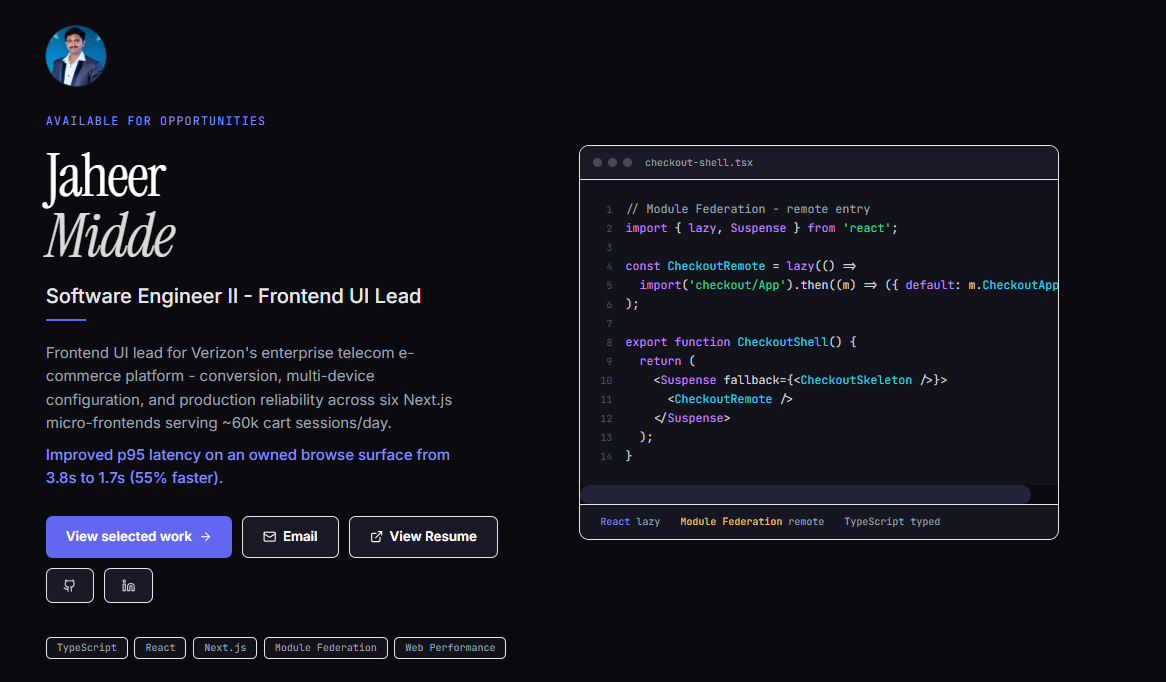
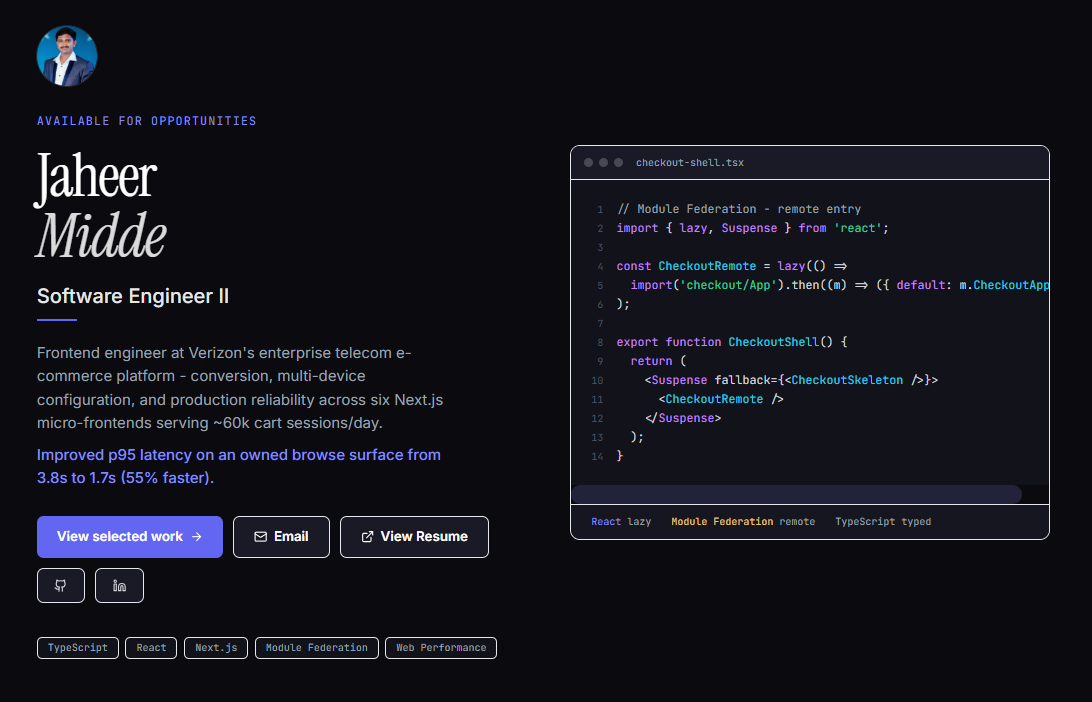
Fix: Namings

diff --git a/src/data/portfolio.ts b/src/data/portfolio.ts
@@ -1,8 +1,8 @@
 export const personal = {
   name: 'Jaheer Midde',
-  title: 'Software Engineer II - Frontend UI Lead',
+  title: 'Software Engineer II',
   tagline:
-    'Frontend UI lead for Verizon\'s enterprise telecom e-commerce platform - conversion, multi-device configuration, and production reliability across six Next.js micro-frontends serving ~60k cart sessions/day.',
+    'Frontend engineer at Verizon\'s enterprise telecom e-commerce platform - conversion, multi-device configuration, and production reliability across six Next.js micro-frontends serving ~60k cart sessions/day.',
   /** Sharp win - rendered on its own line in Hero for mobile readability */
   taglineProof: 'Improved p95 latency on an owned browse surface from 3.8s to 1.7s (55% faster).',
   photoUrl: '/Jaheer_Midde_DP.jpg',
@@ -195,7 +195,7 @@ export const projects: Project[] = [
     headlineMetric: 'Owned browse-surface p95 3.8s -> 1.7s · retention-offer conversion +12% relative · cart add-to-cart +8% relative',
     metricContext: 'Anonymized internal production results on owned e-commerce surfaces. The latency figure is p95 before and after optimization; percentage figures are relative lifts against a pre-change or control baseline; rollout exposure describes a controlled feature-flag progression. Measurement windows, exact traffic, dates, and sample sizes are omitted.',
     description:
-      'UI lead for conversion on Verizon\'s enterprise telecom e-commerce platform - improving promotional merchandising, retention offers, and purchase journeys across high-volume browse and checkout surfaces.',
+      'Frontend engineer focussed on conversion at Verizon\'s enterprise telecom e-commerce platform - improving promotional merchandising, retention offers, and purchase journeys across high-volume browse and checkout surfaces.',
     myContribution:
       'Owned end-to-end: request sequencing design, offer render optimization, and controlled rollout architecture. Led code reviews; backend and QA coordinated integration and experiment operations.',
     problem:
@@ -257,7 +257,7 @@ export const projects: Project[] = [
     headlineMetric: 'Connected-device attach +18% relative · zero state loss · 76 MRs across 6 repos',
     metricContext: 'Anonymized internal production result on owned purchase flows. The attach-rate figure is a relative lift against a pre-change baseline; onboarding compares approximate durations; MR and repository counts describe H1 2026 leadership scope. Measurement window, exact traffic, and sample size are omitted.',
     description:
-      'Core UI lead for a Next.js multi-product device configurator spanning phones, wearables, and tablets - multi-device navigation, persistent state, and dependency validation across connected-device purchase journeys.',
+      'Core UI engineering for a Next.js multi-product device configurator spanning phones, wearables, and tablets - multi-device navigation, persistent state, and dependency validation across connected-device purchase journeys.',
     myContribution:
       'Designed the device-context state model and cross-category validation rules. Owned system design docs and final review on 76 MRs across 6 repositories; mentored the squad on configurator patterns and grooming.',
     problem:
@@ -267,12 +267,12 @@ export const projects: Project[] = [
     outcome:
       'Enabled bidirectional add journeys with zero data loss across device-context switches; connected-device attach rate delivered an 18% relative lift on bundle flows. Cut new-developer onboarding from ~3 weeks to ~1.5 weeks through structured knowledge-transfer sessions.',
     technicalDeepDive:
-      'The configurator maintains a device-context stack in client state - when a user adds one device and navigates to another, the newest device becomes active while prior selections and eligibility decisions remain available. Cross-category logic validates dependencies before checkout rather than deferring them to the cart. As UI lead, I finalized approach docs, led grooming, and conducted code reviews across six repositories - merging 76 MRs in H1 2026 with zero static-analysis issues and quality gates on every push.',
+      'The configurator maintains a device-context stack in client state - when a user adds one device and navigates to another, the newest device becomes active while prior selections and eligibility decisions remain available. Cross-category logic validates dependencies before checkout rather than deferring them to the cart. I finalized approach docs, supported grooming, and conducted code reviews across six repositories - merging 76 MRs in H1 2026 with zero static-analysis issues and quality gates on every push.',
     metrics: [
       { label: 'Connected-device relative attach-rate lift', before: 'pre-change baseline', after: '+18%' },
       { label: 'MRs merged (H1 2026)', before: '-', after: '76', display: 'kpi' },
       { label: 'Developer onboarding time', before: '~3 wks', after: '~1.5 wks' },
-      { label: 'Repositories led', before: '-', after: '6', display: 'kpi' },
+      { label: 'Repositories involved', before: '-', after: '6', display: 'kpi' },
     ],
     artifacts: {
       showStateDiagram: true,
@@ -286,7 +286,7 @@ export const projects: Project[] = [
     highlights: [
       'Built multi-device navigation - seamless switching between product categories without state loss',
       'Orchestrated connected-device bundle flows with an in-context path to add a companion product',
-      'UI lead for purchase-flow engineering: system design, grooming, knowledge transfer, and code reviews across six repositories',
+      'Contributed to purchase-flow engineering: system design, grooming, knowledge transfer, and code reviews across six repositories',
       'Delivered purchase-flow migrations and guided checkout integrations as a core UI point of contact',
     ],
     tech: ['Next.js', 'TypeScript', 'React', 'Feature Flags', 'Jest', 'Sonar', 'Zustand', 'Module Federation'],
@@ -363,7 +363,7 @@ export interface Experience {
   location: string;
   description: string;
   achievements: string[];
-  leadership?: string[];
+  collaboration?: string[];
   tech: string[];
   progression?: RoleProgression[];
 }
@@ -380,15 +380,15 @@ export const experiences: Experience[] = [
       { role: 'Software Engineer II', period: 'Dec 2023 - Present' },
     ],
     description:
-      'Core UI lead for purchase-flow engineering on Verizon\'s enterprise telecom e-commerce platform - owning conversion improvements, multi-product configurator architecture, and production reliability across browse, configuration, and checkout micro-frontends serving high-volume customer journeys.',
+      'Core UI engineering for purchase-flow engineering on Verizon\'s enterprise telecom e-commerce platform - owning conversion improvements, multi-product configurator architecture, and production reliability across browse, configuration, and checkout micro-frontends serving high-volume customer journeys.',
     achievements: [
-      'UI lead for conversion and offer experiences across browse and checkout micro-frontends',
+      'Contributed to conversion and offer experiences across browse and checkout micro-frontends',
       'Architected a multi-product configurator enabling persistent cross-device state and bidirectional add flows',
       'Owned production stability for squad surfaces - SSR security remediation, defect triage, and launch-window war rooms during flagship releases',
       'Shipped consecutive flagship launch cycles with coordinated cross-platform triage and no carry-forward defects on owned surfaces',
     ],
-    leadership: [
-      'UI lead for purchase-flow engineering: system design, story grooming, approach finalization, and code reviews across 6 repositories',
+    collaboration: [
+      'Contributed to purchase-flow engineering: system design, story grooming, approach finalization, and code reviews across 6 repositories',
       'Authored an RFC-style design doc on micro-frontend integration and semver upgrade paths - adopted as a squad standard for remote-entry contracts',
       'Conducted knowledge-transfer sessions on squad EPICs - cut new-developer onboarding from ~3 weeks to ~1.5 weeks; mentored junior engineers on platform architecture',
       'Primary UI liaison between feature flags, backend services, and QA - leading incident triage during flagship and holiday releases',
@@ -488,7 +488,7 @@ export const siteMeta = {
   url: 'https://jaheermidde.vercel.app',
   ogImage: '/og-image.png',
   description:
-    'Frontend UI lead at Verizon - cart performance, configurator architecture, and production reliability. Open source: ShopForge and ConfigStack frontend demos.',
+    'Software Engineer II at Verizon - cart performance, configurator architecture, and production reliability. Open source: ShopForge and ConfigStack frontend demos.',
   builtWith: ['React 18', 'TypeScript', 'Vite', 'Tailwind CSS'],
   /** Shields.io badge for CI - update org/repo if different on GitHub */
   ciBadgeUrl: 'https://img.shields.io/github/actions/workflow/status/JaheerMidde/portfolio/ci.yml?branch=main&label=CI',

diff --git a/index.html b/index.html
@@ -6,8 +6,8 @@
     <meta name="viewport" content="width=device-width, initial-scale=1.0" />
 
     <!-- Primary Meta -->
-    <title>Jaheer Midde - Software Engineer II · Frontend UI Lead</title>
-    <meta name="description" content="Frontend UI lead at Verizon - browse-surface p95 3.8s -> 1.7s, retention-offer conversion +12% relative lift, cart add-to-cart +8% relative lift, and connected device attach +18% relative lift." />
+    <title>Jaheer Midde - Software Engineer II</title>
+    <meta name="description" content="Software Engineer II at Verizon - browse-surface p95 3.8s -> 1.7s, retention-offer conversion +12% relative lift, cart add-to-cart +8% relative lift, and connected device attach +18% relative lift." />
     <meta name="keywords" content="Jaheer Midde, Software Engineer, Frontend Engineer, React, TypeScript, Next.js, E-Commerce, Cart Conversion, Configurator, Portfolio" />
     <meta name="author" content="Jaheer Midde" />
     <meta name="theme-color" content="#0c0c0c" />
@@ -16,22 +16,22 @@
     <!-- Open Graph -->
     <meta property="og:type" content="website" />
     <meta property="og:url" content="https://jaheermidde.vercel.app/" />
-    <meta property="og:title" content="Jaheer Midde - Software Engineer II · Frontend UI Lead" />
-    <meta property="og:description" content="Frontend UI lead at Verizon - browse-surface p95 3.8s -> 1.7s, retention-offer conversion +12% relative lift, cart add-to-cart +8% relative lift, and connected device attach +18% relative lift." />
+    <meta property="og:title" content="Jaheer Midde - Software Engineer II" />
+    <meta property="og:description" content="Software Engineer II at Verizon - browse-surface p95 3.8s -> 1.7s, retention-offer conversion +12% relative lift, cart add-to-cart +8% relative lift, and connected device attach +18% relative lift." />
     <meta property="og:image" content="https://jaheermidde.vercel.app/og-image.png" />
     <meta property="og:image:type" content="image/png" />
     <meta property="og:image:width" content="1200" />
     <meta property="og:image:height" content="630" />
-    <meta property="og:image:alt" content="Jaheer Midde - Software Engineer II and Frontend UI Lead" />
+    <meta property="og:image:alt" content="Jaheer Midde - Software Engineer II" />
     <meta property="og:site_name" content="Jaheer Midde" />
     <meta property="og:locale" content="en_US" />
 
     <!-- Twitter Card -->
     <meta name="twitter:card" content="summary_large_image" />
-    <meta name="twitter:title" content="Jaheer Midde - Software Engineer II · Frontend UI Lead" />
-    <meta name="twitter:description" content="Frontend UI lead at Verizon - browse-surface p95 3.8s -> 1.7s, retention-offer conversion +12% relative lift, cart add-to-cart +8% relative lift, and connected device attach +18% relative lift." />
+    <meta name="twitter:title" content="Jaheer Midde - Software Engineer II" />
+    <meta name="twitter:description" content="Software Engineer II at Verizon - browse-surface p95 3.8s -> 1.7s, retention-offer conversion +12% relative lift, cart add-to-cart +8% relative lift, and connected device attach +18% relative lift." />
     <meta name="twitter:image" content="https://jaheermidde.vercel.app/og-image.png" />
-    <meta name="twitter:image:alt" content="Jaheer Midde - Software Engineer II and Frontend UI Lead" />
+    <meta name="twitter:image:alt" content="Jaheer Midde - Software Engineer II" />
 
     <!-- Canonical -->
     <link rel="canonical" href="https://jaheermidde.vercel.app/" />
@@ -48,7 +48,7 @@
       "@type": "Person",
       "name": "Jaheer Midde",
       "url": "https://jaheermidde.vercel.app",
-      "jobTitle": "Software Engineer II · Frontend UI Lead",
+      "jobTitle": "Software Engineer II",
       "knowsAbout": ["TypeScript", "React", "Next.js", "E-Commerce", "Cart Conversion", "Web Performance"],
       "sameAs": [
         "https://github.com/JaheerMidde",

diff --git a/src/components/About.tsx b/src/components/About.tsx
@@ -13,7 +13,7 @@ const cards = [
   {
     icon: Briefcase,
     title: 'Conversion & Performance',
-    content: 'UI lead for high-traffic purchase surfaces - improving offer experiences, render performance, and controlled rollouts with measurable relative conversion lift.',
+    content: 'Frontend engineering for high-traffic purchase surfaces - improving offer experiences, render performance, and controlled rollouts with measurable relative conversion lift.',
     color: 'text-accent-400',
     bg: 'bg-surface-800 border-white/10',
   },
@@ -27,7 +27,7 @@ const cards = [
   {
     icon: BookOpen,
     title: 'Purchase-Flow Leadership',
-    content: 'Core UI POC for purchase-flow engineering - system design, code reviews, knowledge transfer, and cross-team coordination with feature flags, backend, and QA during incidents.',
+    content: 'Purchase-flow engineering across system design, code reviews, knowledge transfer, and cross-team coordination with feature flags, backend, and QA during incidents.',
     color: 'text-gray-300',
     bg: 'bg-surface-800 border-white/10',
   },
@@ -75,7 +75,7 @@ export default function About() {
                   <MapPin className="w-4 h-4 text-accent-400" aria-hidden="true" />
                   {personal.location}
                 </span>
-                . Core UI lead for purchase-flow engineering on Verizon&apos;s customer-facing e-commerce platform - shipping cart conversion, multi-product configurator flows, and production reliability for high-volume customer journeys.{' '}
+                . Core UI engineering for purchase-flow engineering on Verizon&apos;s customer-facing e-commerce platform - shipping cart conversion, multi-product configurator flows, and production reliability for high-volume customer journeys.{' '}
                 <span className="text-gray-300">Open to Software Engineer II/III (frontend) roles.</span>
               </p>
             </div>

diff --git a/src/components/Experience.tsx b/src/components/Experience.tsx
@@ -21,7 +21,7 @@ export default function Experience() {
           </div>
           <h2 className="text-4xl font-serif text-white mb-4">Experience</h2>
           <p className="text-gray-400 text-lg">
-            4+ years as core UI lead on Verizon&apos;s e-commerce platform - shipping cart conversion, configurator, and production reliability at enterprise scale.
+            4+ years as a core UI engineer at Verizon&apos;s e-commerce platform - shipping cart conversion, configurator, and production reliability at enterprise scale.
           </p>
         </motion.div>
 
@@ -118,16 +118,16 @@ export default function Experience() {
                     </ul>
                   </div>
 
-                  {exp.leadership && exp.leadership.length > 0 && (
+                  {exp.collaboration && exp.collaboration.length > 0 && (
                     <div className="mb-6">
                       <h4 className="text-white font-medium text-sm mb-4 flex items-center gap-2">
                         <Users className="w-4 h-4 text-cyan-400" aria-hidden="true" />
-                        Leadership &amp; Influence
+                        Collaboration &amp; Influence
                       </h4>
                       <ul className="space-y-3">
-                        {exp.leadership.map((item, li) => (
+                        {exp.collaboration.map((item, li) => (
                           <motion.li
-                            key={`${exp.company}-leadership-${item}`}
+                            key={`${exp.company}-collaboration-${item}`}
                             initial={{ opacity: 0, x: -10 }}
                             animate={inView ? { opacity: 1, x: 0 } : {}}
                             transition={{ delay: 0.45 + li * 0.07 }}

diff --git a/README.md b/README.md
@@ -1,6 +1,6 @@
 # Jaheer Midde - Portfolio
 
-Frontend-focused developer portfolio for Jaheer Midde, a Software Engineer II and Frontend UI Lead working on e-commerce conversion, multi-product configuration, micro-frontends, and production reliability.
+Frontend-focused developer portfolio for Jaheer Midde, a Software Engineer II working on e-commerce conversion, multi-product configuration, micro-frontends, and production reliability.
 
 **Live site:** [jaheermidde.vercel.app](https://jaheermidde.vercel.app)
 
